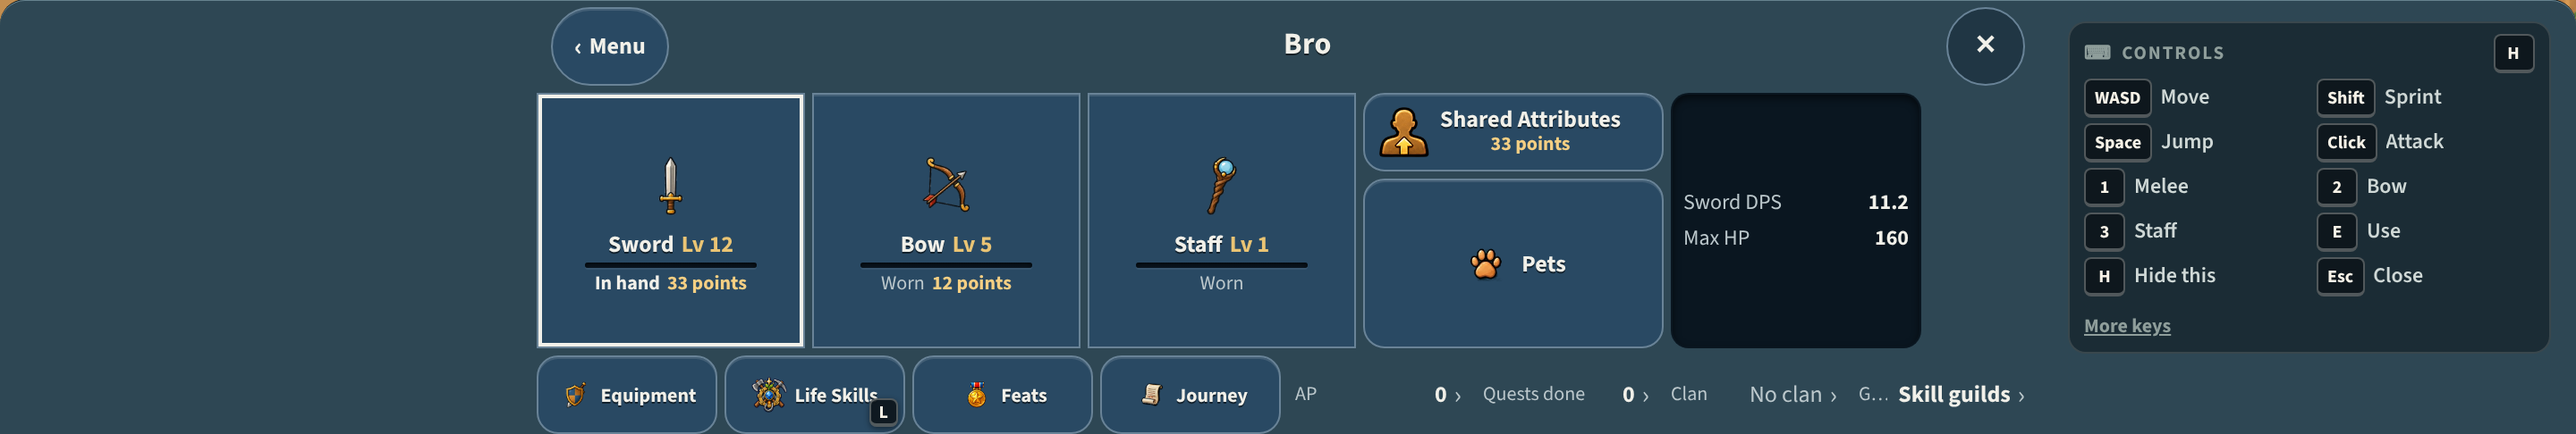
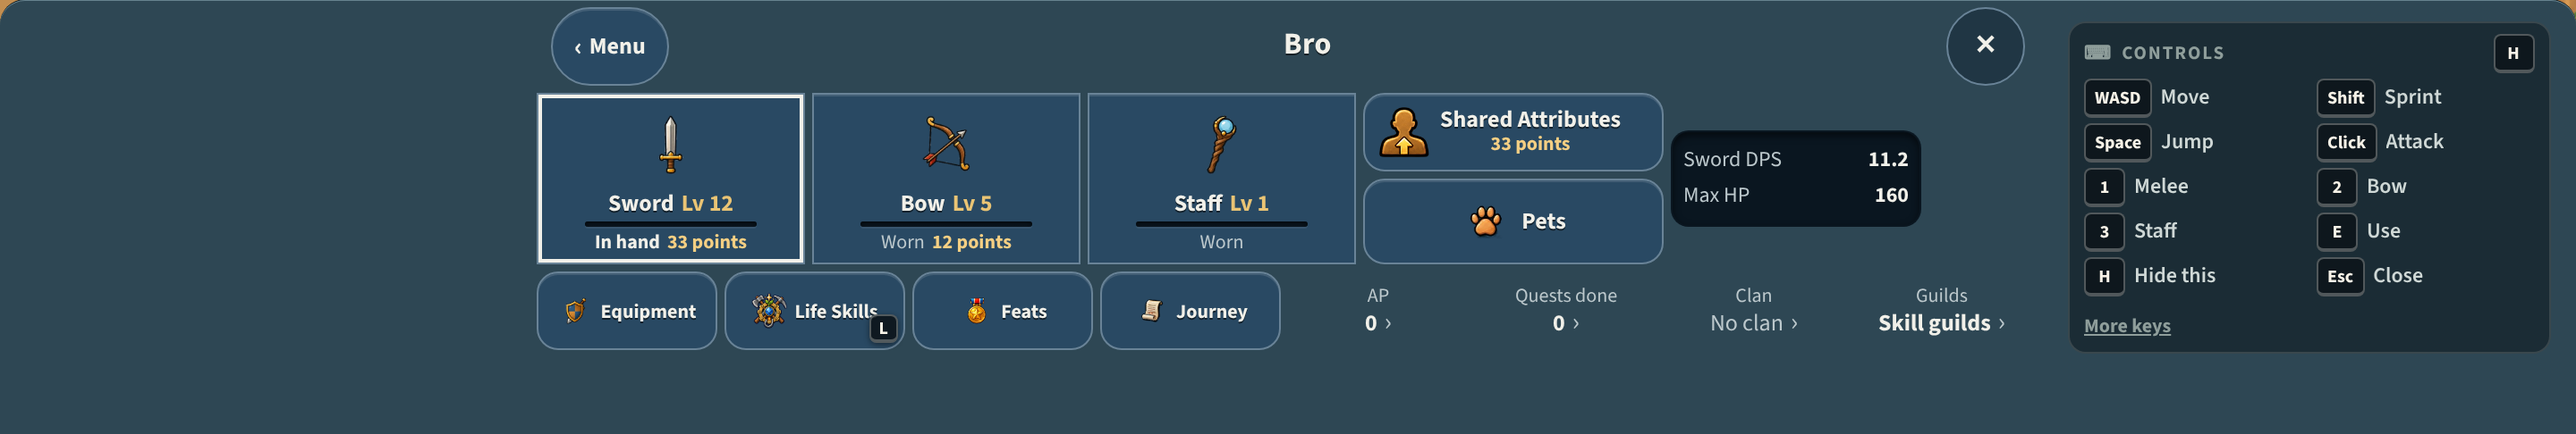
v2.3.6843: the key mark clear of Life Skills on a computer; V17's own pictures of Bro; status (card UI4 PR 4)
Claude-Session: https://claude.ai/code/session_01LccHaiLmQLatf1dEU35hva

diff --git a/src/ui/mobile/sheet/broV17.css b/src/ui/mobile/sheet/broV17.css
@@ -37,7 +37,7 @@
 .ui2 .u2-bv-strip .u2-fact-k { flex: 0 0 auto; max-width: 100%; }
 .ui2 .u2-bv-strip .u2-fact-v { text-align: center; }
 /* the key a computer's letter wears (game.css [data-key]::after, bottom right) keeps clear of the word */
-.ui2 .u2-bv-entry[data-key] { padding-right: 16px; }
+.ui2 .u2-bv-entry.u2-tile.is-compact[data-key] { padding-right: 16px; }
 .ui2.u2-bv.is-side .u2-bv-strip .u2-fact, .ui2.u2-bv.is-side .u2-bv-entry { min-height: 44px; }
 
 /* V17's look: the points' cue the priority colour, never commit gold (V17:20) */

diff --git a/docs/plan/status/UI4.md b/docs/plan/status/UI4.md
@@ -1,14 +1,17 @@
 card: UI4
-branch: claude/plan-ui4-look (PR 2, stacked on claude/plan-ui4-kit)
-prs: PR 1 (UI4-kit, tag 6840): draft, base main; ready, a gatekeeper's list, the base of a stack. PR 2 (UI4-look, tag 6841): draft, base claude/plan-ui4-kit (its number in the orchestrator's message)
+branch: claude/plan-ui4-bro (PR 4, stacked on claude/plan-ui4-base: PR 2 and main)
+prs: PR 1 (UI4-kit, tag 6840): draft, base main; ready, a gatekeeper's list, the base of a stack. PR 2 (UI4-look, tag 6841): draft, base claude/plan-ui4-kit (its number in the orchestrator's message) PR 4 (UI4-bro, tag 6843): draft, base claude/plan-ui4-base (its number in the orchestrator's message).
 state: ready
 
 ## Done
 - v2.3.6840, PR 1 (UI4-kit; branch claude/plan-ui4-kit from main eb48c22c): THE NINE ROLES, one table, `src/game/uiRoles.js` (V17:37-47 with the game's names: info, inspect, go, selected, adjust, commit, danger, disabled, slot; `KIT_PIECES` names every piece the kit exports and the roles it takes; `ui2Role()` the ONE place yesterday's props, a handler, a colour `c`, `selected`, become a role, and the Action's face). The prop is `intent` (V17:157's word): `role` is the browser's accessibility attribute, which the kit passes through (BroStrip's `role="group"`, the Tab's `role="tab"`). Ui2Stat, Ui2Fact, Ui2Tile, Ui2Action, Ui2Slot ask ui2Role and write `data-u2-role`; the header's Back and Menu `go`, Close `adjust`; Confirm's yes `commit`/`danger`, no `adjust`; Ui2Actions passes an action's `intent`. No style sheet reads the role: NO screen changes its look. The five pieces V17:49 names that the kit lacked, in today's look, on `?uikit=1` (plates roles, tab, stepper, inspect, compare, overlay) and in `states.mjs` (`ui4-kit-*`), none used by a screen yet: `Ui2Tabs`/`Ui2Tab`, `Ui2Stepper` (the trade window's), `Ui2InspectStat`, `Ui2Comparison` (signed text and a word; the rules `src/game/kitRules.js`), `Ui2Overlay` (a town window's frame). The guard `tools/guards/ui4-roles.test.mjs` (syntax tree; G1 to G8, its plants in part P) and its allow list `tools/guards/lib/rolesKnown.mjs` (78 role-less calls on main, per file; the total only falls). `mp-uikit` 11 and the pictures `docs/shots/ui4-kit-pieces.png`, `-sideways.png`. Docs: `docs/design/v17/` (the owner's four files), `docs/plan/cards/UI4.md`, `UI4-facts.md`, the decision log's line (part 13) and part 18, `UI-DESIGN-NOTES.md`'s section.
 
 - v2.3.6841, PR 2 (UI4-look; branch claude/plan-ui4-look from claude/plan-ui4-kit a3465b2a): V17'S LOOK BY ROLE behind `?v17look` (on by default, remembered `bt_v17look`, `=1` back; its switch row). One class on the kit root, `ui2-v17` (`src/ui/kit/shine.js` v17LookOn; never over `?ui2look=0`); every rule under it (`ui2.css`'s last block, two rules in `combatPage.css`), its tokens `UI2_V17` (`src/game/ui2Tokens.js`, their own generated block `.ui2.ui2-v17`, NOT in ui2Vars, so suite 13's hash holds). V17's nine values to the digit; the open ones (the tab's slate, the neutral slate #203644, disabled #20303B/#BCC8CC, danger's white words and #EE958A edge, the point's #F5CF83/#BC9B60) read from the owner's prototype's last rule for each role. Green and blue faces become commit gold and the go slate (Q5); the chosen one: slate, gold #EAC474 border, a bar under it, its word underlined (Q6); stat numbers ivory, chevrons #BCC8CC; a level keeps its gold; a point's cue not commit gold (Q7); the smallest word 12 where it fits (Q11), measured 11 against 12 both ways up: Combat and Gear take 12; Bro, the Sword's page, Shared and the stat tree keep 11 (`UI2_V17_SMALL11`). Guards: `tools/guards/ui4-look.test.mjs` (postcss and babel syntax trees, L0-L10, 21 dodges planted red), `ui2-tokens.test` 15-18, `ui3-weights` R9's text list takes the V17 words. Phone: `mp-v17look` (50) and `mp-uikit` 12 (checks 1-11 now at `=0`; 43); `mp-ui3menus` 4 expects the 12 of the look. Proof `=0` is the base: the same scenario run on the base build (QA_DIST) matched to the pixel except the AP figure and a pulsing hint ring (state); the kit's pictures came out byte-identical but for the turning ring and loading sweep (left as they were). The owner's word relayed by the orchestrator (22:20 UTC, "I'd prefer centered"): a label alone in its box centred under the look (`is-lone` on a compact tile with no line under it; a stat's words; guard L10, `mp-v17look` 2e/2f, `mp-uikit` 12f); rows, lists and explanations left and listed. Docs: UI-DESIGN-NOTES section, `ui4-look-before` in states.mjs and its packet, the decision log's line, pictures `docs/shots/ui4-look-*-pair*.png`.
+- v2.3.6843, PR 4 (UI4-bro; branch claude/plan-ui4-bro from claude/plan-ui4-base 016cf599): BRO LEADS WITH THE THREE WEAPONS behind `?v17bro` (on, remembered `bt_v17bro`; `=0` BroLanding untouched; its switch row). Rules `src/game/broV17.js` (the switch, the weapons from combatHubDoors with the hand held/worn/none and the cue only while points, Shared and Pets, the strip's entries and whole-entry pages, the three layouts); page `sheet/BroV17.jsx` + `broV17.css`; kit `Ui2LevelTile`, `Ui2Strip` (+ `?uikit=1` plates `leveltile`, `strip`; KIT_PIECES rows); BroStrip's entry its own piece (`BroStripFact`, output unchanged). Suite `tools/guards/bro-v17.test.mjs` (rules run, syntax tree of the page and BroCard, 31 plants red); phone `mp-v17bro` (77, twice green); `mp-v17fit`'s Bro main is the weapons and the two doors; harness `dashOpen` plays V17's Bro (one tap a weapon, the hub by the HUD's bar and Back, the strip's more); `mp-ui2bro` plays `=0` and its check 9 was STALE (since v2.3.6692 another player's page is `Sunburn's Bro` with a bust from a look or an initial, never a handed portrait): mended. States `ui4-bro`, `ui4-kit-leveltile`, `ui4-kit-strip`; `ui2-bro-landing` is `=0`'s. Pictures `docs/shots/v17bro-<size>[-off|-base].png`, V17's own `v17bro-v17-<size>.png`.
 
 ## Next
+- The owner tries PR 4 on their phone (`?v17bro=0` to compare) and answers Q4 (V17's Bro against the six tiles), Q13 ("Character stats" against Shared Attributes), and whether the quiet strip (it pages on a phone) or the directory (Q3) should hold Equipment, Life Skills, Feats, Journey, AP, Quests, Clan, Guilds.
+- PR 5 (UI4-combat, tag 6844) stacks on PR 4. Not run here (offered): mp-v17fit's full sweep, the neighbours mp-equipgreen, mp-ui2gear, mp-ui2pets, mp-ui2life, mp-apchip, mp-v17look, mp-ui2bro, and a full ui-review.
 - The owner looks at PR 2 on their phone (the preview; `?v17look=0` to compare) and answers Q5, Q6, Q7, Q11, and which of the listed left-aligned rows (if any) to centre.
 - PR 4 (UI4-bro, tag 6843) stacks on PR 2.
 - PRs 4 to 6 name the intents on their screens' calls; `rolesKnown.mjs` falls with them (`node tools/guards/ui4-roles.test.mjs --write`).
